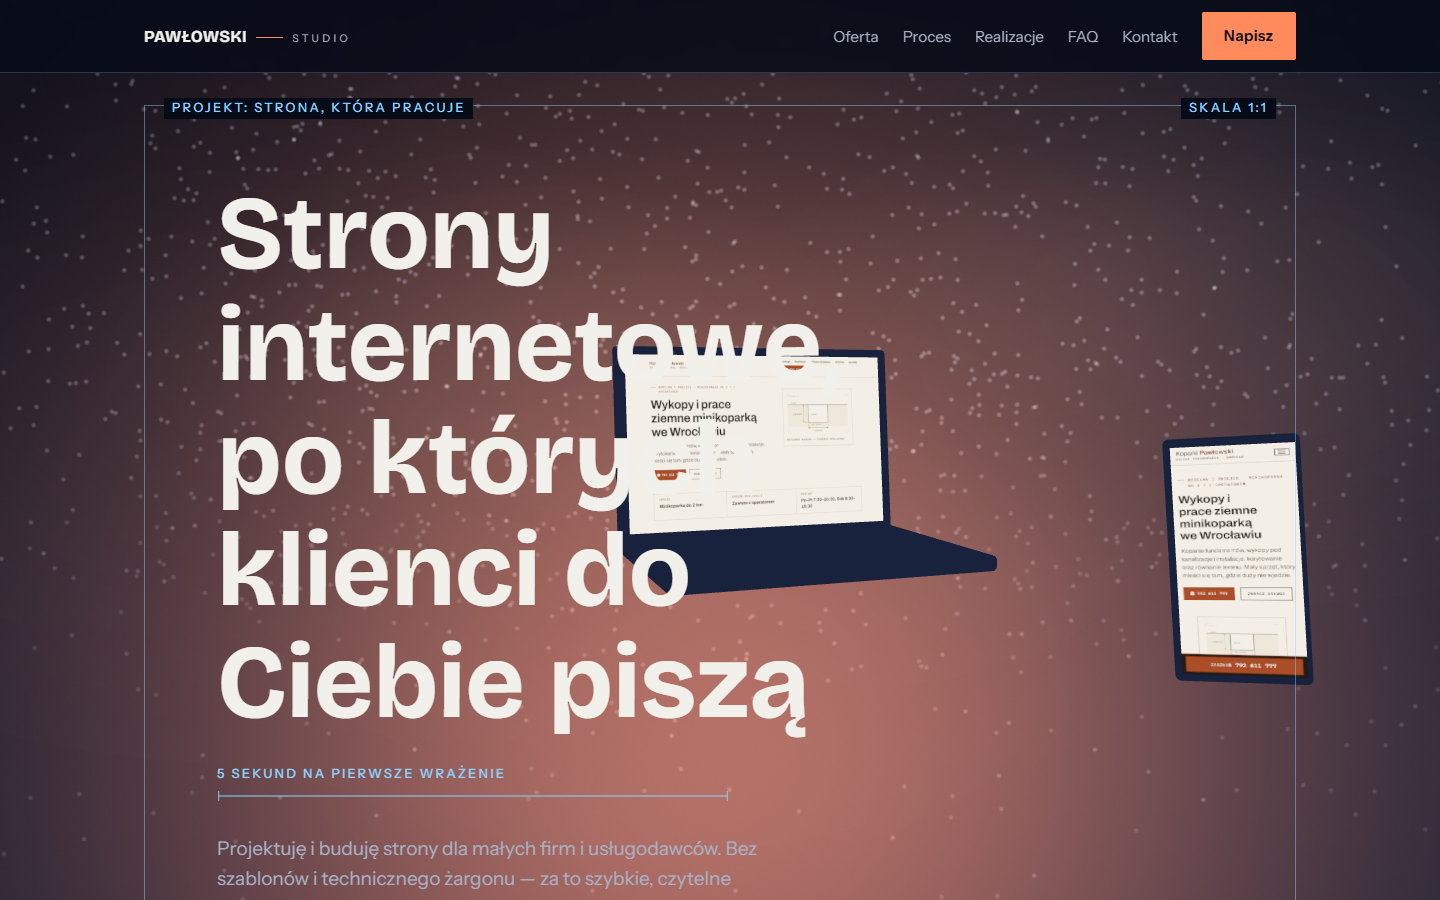
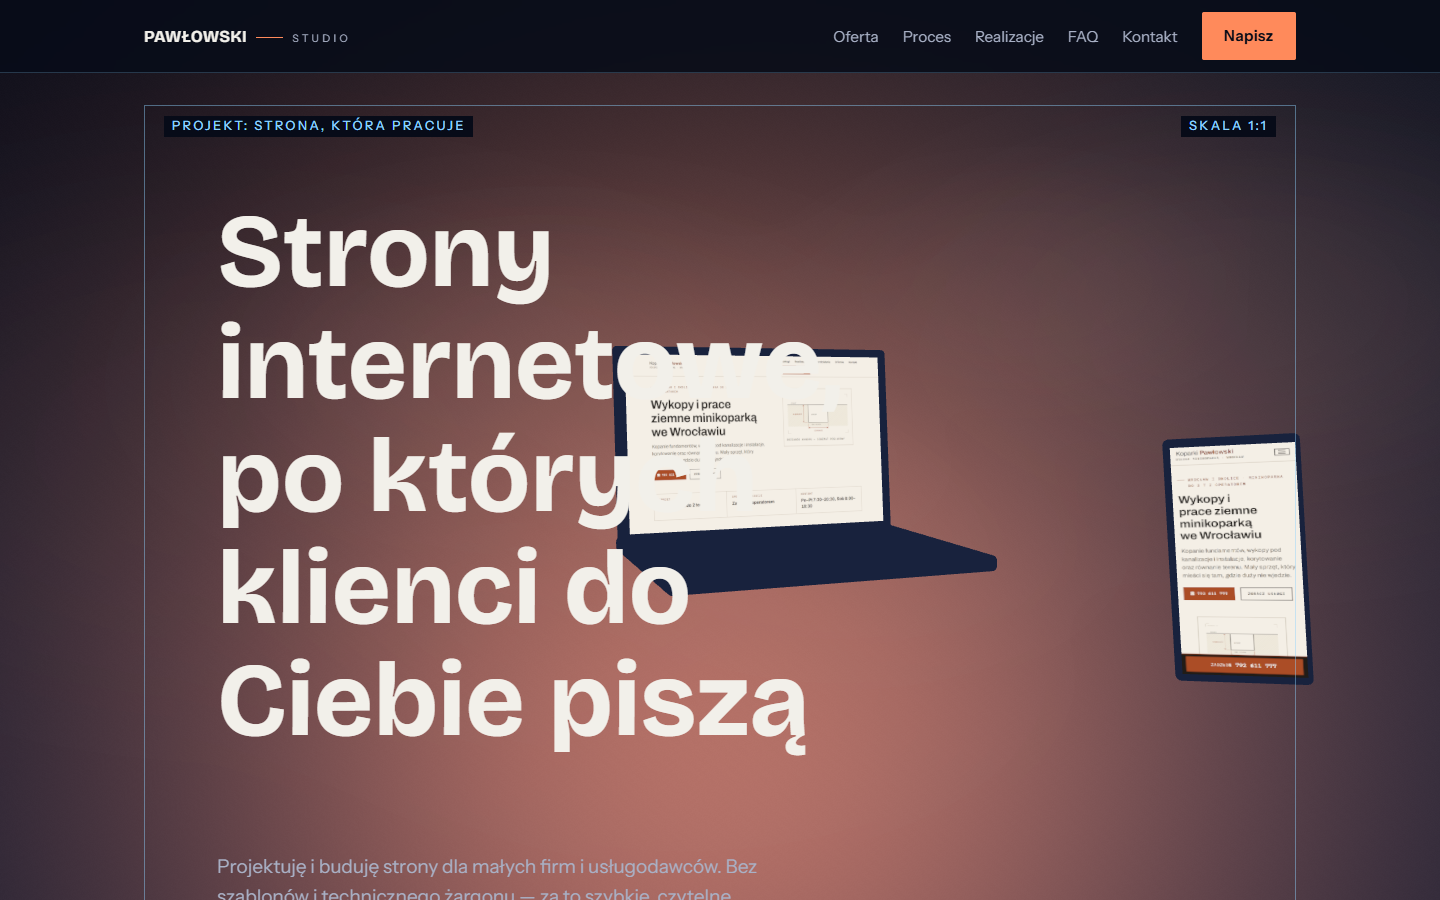
feat: page-wide pinned scroll ride (hero/offer/process/case), fix pin-spacer overlap, remove background dots

diff --git a/src/scripts/motion/reveals.ts b/src/scripts/motion/reveals.ts
@@ -1,6 +1,11 @@
-// Reveals: one orchestrated hero entrance + sparing scroll-driven reveals.
-// Masterprompt 8.5: NOT fade-up on every block — key headings and section
-// intros only. SplitText keeps full text accessible (aria: 'auto').
+// Reveals + act choreography (MASTERPROMPT sekcja 10).
+// Hero entrance is pure CSS (motion.css). Here: scroll-driven "hooked" acts —
+// pinned sequences like the Proces one the owner liked (GTA VI / motionsites
+// style): each key section locks and its beats play through the scroll.
+//
+// CRITICAL (bug fix): every trigger is created in DOM order and carries a
+// refreshPriority — out-of-order pins overlap their pin-spacers on refresh.
+// Accessibility: transforms/colors only — text contrast never breaks mid-scroll.
 import { gsap } from 'gsap';
 import { ScrollTrigger } from 'gsap/ScrollTrigger';
 import { SplitText } from 'gsap/SplitText';
@@ -10,11 +15,13 @@ gsap.registerPlugin(ScrollTrigger, SplitText);
 export function initReveals(): void {
   const mm = gsap.matchMedia();
 
+  // ---------------------------------------------------------------
+  // Reveals that never pin (safe at any width / any order)
+  // ---------------------------------------------------------------
   mm.add('(prefers-reduced-motion: no-preference)', () => {
     // Hero entrance is pure CSS (motion.css) so the LCP element paints at
     // first render — JS never gates hero visibility (masterprompt sekcja 9).
 
-    // --- Section headings: masked line reveal on scroll ---
     gsap.utils.toArray<HTMLElement>('.section__heading').forEach((el) => {
       SplitText.create(el, {
         type: 'lines',
@@ -32,7 +39,6 @@ export function initReveals(): void {
       });
     });
 
-    // --- Section intros + labels: plain fade (masterprompt: simple fade for prose) ---
     gsap.utils.toArray<HTMLElement>('.section__label, .section__intro').forEach((el) => {
       gsap.from(el, {
         autoAlpha: 0,
@@ -42,99 +48,176 @@ export function initReveals(): void {
         scrollTrigger: { trigger: el, start: 'top 88%', once: true },
       });
     });
+  });
 
-    // --- Global scrub choreography (G2 feedback: the whole page should flow
-    // like the pinned Proces sequence). Transform-only: text contrast is never
-    // broken mid-scroll. ---
+  // ---------------------------------------------------------------
+  // Desktop ride: pinned acts in DOM order (I hero, II oferta,
+  // III proces, IV realizacje; V-VI scrubbed; VII kontakt scrubbed)
+  // ---------------------------------------------------------------
+  mm.add('(prefers-reduced-motion: no-preference) and (min-width: 60rem)', () => {
+    // ACT I — Hero: pinned exit sequence (the first "hook")
+    const heroTl = gsap.timeline({
+      scrollTrigger: {
+        trigger: '.hero',
+        start: 'top top',
+        end: '+=100%',
+        pin: true,
+        scrub: 0.4,
+        anticipatePin: 1,
+        refreshPriority: 10,
+        invalidateOnRefresh: true,
+      },
+    });
+    heroTl
+      .to('[data-hero="meta"]', { y: -70, ease: 'none' }, 0)
+      .to('[data-hero="dimension"]', { scaleX: 0, transformOrigin: 'right center', ease: 'none' }, 0)
+      .to('[data-hero="title"]', { yPercent: -16, ease: 'none' }, 0)
+      .to('[data-hero="lead"]', { yPercent: -10, ease: 'none' }, 0)
+      .to('[data-hero="ctas"]', { yPercent: -4, ease: 'none' }, 0);
 
-    // Hero exits with parallax
-    gsap.to('.hero__content', {
-      yPercent: -10,
-      ease: 'none',
-      scrollTrigger: { trigger: '.hero', start: 'top top', end: 'bottom top', scrub: 0.5 },
+    // ACT II — Oferta: pinned card-by-card reveal (like Proces steps)
+    const cards = gsap.utils.toArray<HTMLElement>('.offer-card');
+    const offerTl = gsap.timeline({
+      scrollTrigger: {
+        trigger: '.offer',
+        start: 'top top+=72',
+        end: '+=130%',
+        pin: true,
+        scrub: 0.4,
+        anticipatePin: 1,
+        refreshPriority: 8,
+        invalidateOnRefresh: true,
+      },
+    });
+    cards.forEach((card, i) => {
+      offerTl.fromTo(card, { y: 28 }, { y: 0, duration: 1, ease: 'none' }, i * 0.8);
+      offerTl.fromTo(
+        card,
+        { borderColor: 'rgba(143, 211, 255, 0.14)' },
+        { borderColor: 'rgba(255, 138, 91, 0.55)', duration: 1, ease: 'none' },
+        i * 0.8,
+      );
     });
 
-    // Offer cards rise in a wave as the section enters
-    gsap.from('.offer-card', {
-      y: 60,
-      stagger: 0.12,
-      ease: 'none',
-      scrollTrigger: { trigger: '.offer__grid', start: 'top 90%', end: 'top 35%', scrub: 0.6 },
+    // ACT III — Proces: pinned step sequence (owner's favourite)
+    const steps = gsap.utils.toArray<HTMLElement>('.process-step');
+    const processTl = gsap.timeline({
+      scrollTrigger: {
+        trigger: '.process',
+        start: 'top top+=72',
+        end: '+=130%',
+        pin: true,
+        scrub: 0.4,
+        anticipatePin: 1,
+        refreshPriority: 6,
+        invalidateOnRefresh: true,
+      },
+    });
+    steps.forEach((step, i) => {
+      const num = step.querySelector<HTMLElement>('.process-step__number');
+      processTl.fromTo(step, { y: 24 }, { y: 0, duration: 1, ease: 'none' }, i);
+      if (num) {
+        processTl.fromTo(
+          num,
+          { color: '#8FD3FF' },
+          { color: '#FF8A5B', duration: 1, ease: 'none' },
+          i,
+        );
+      }
     });
 
-    // Standard + FAQ + contact: gentle staggered rises tied to scroll
+    // ACT IV — Realizacje: pinned case-study sequence
+    const caseSteps = gsap.utils.toArray<HTMLElement>('.case-study__step');
+    const caseTl = gsap.timeline({
+      scrollTrigger: {
+        trigger: '.case-study',
+        start: 'top top+=72',
+        end: '+=100%',
+        pin: true,
+        scrub: 0.4,
+        anticipatePin: 1,
+        refreshPriority: 4,
+        invalidateOnRefresh: true,
+      },
+    });
+    caseTl.fromTo(
+      '.case-study__mockups',
+      { y: 30 },
+      { y: -30, duration: caseSteps.length, ease: 'none' },
+      0,
+    );
+    caseSteps.forEach((step, i) => {
+      caseTl.fromTo(step, { color: '#8FD3FF' }, { color: '#FF8A5B', duration: 1, ease: 'none' }, i);
+      const body = step.nextElementSibling;
+      if (body) caseTl.fromTo(body, { y: 24 }, { y: 0, duration: 1, ease: 'none' }, i);
+    });
+
+    // ACT V-VI — Standard + FAQ: staggered rises tied to scroll
     gsap.from('.standard-item', {
       y: 50,
       stagger: 0.1,
       ease: 'none',
-      scrollTrigger: { trigger: '.standard__grid', start: 'top 88%', end: 'top 40%', scrub: 0.6 },
+      scrollTrigger: {
+        trigger: '.standard__grid',
+        start: 'top 88%',
+        end: 'top 40%',
+        scrub: 0.6,
+        refreshPriority: 3,
+      },
     });
     gsap.from('.faq-item', {
       y: 30,
       stagger: 0.08,
       ease: 'none',
-      scrollTrigger: { trigger: '.faq__list', start: 'top 88%', end: 'top 45%', scrub: 0.6 },
+      scrollTrigger: {
+        trigger: '.faq__list',
+        start: 'top 88%',
+        end: 'top 45%',
+        scrub: 0.6,
+        refreshPriority: 2,
+      },
     });
+
+    // ACT VII — Kontakt: the dawn finale (scrubbed, no pin — the form is the
+    // conversion moment and must never be locked away)
     gsap.from('.contact__grid', {
       y: 60,
       ease: 'none',
-      scrollTrigger: { trigger: '.contact', start: 'top 88%', end: 'top 45%', scrub: 0.6 },
+      scrollTrigger: {
+        trigger: '.contact',
+        start: 'top 88%',
+        end: 'top 45%',
+        scrub: 0.6,
+        refreshPriority: 1,
+      },
     });
+  });
 
-    // --- Act IV (Realizacje): short pinned sequence on desktop, like Proces ---
-    mm.add('(prefers-reduced-motion: no-preference) and (min-width: 60rem)', () => {
-      const steps = gsap.utils.toArray<HTMLElement>('.case-study__step');
-      const tl = gsap.timeline({
-        scrollTrigger: {
-          trigger: '.case-study',
-          start: 'top top+=72',
-          end: '+=100%',
-          pin: true,
-          scrub: 0.4,
-          invalidateOnRefresh: true,
-        },
-      });
-      tl.fromTo(
-        '.case-study__mockups',
-        { y: 30 },
-        { y: -30, duration: steps.length, ease: 'none' },
-        0,
-      );
-      steps.forEach((step, i) => {
-        // Labels glow from structural blue to the warm accent (both pass AA)
-        tl.fromTo(step, { color: '#8FD3FF' }, { color: '#FF8A5B', duration: 1, ease: 'none' }, i);
-        const body = step.nextElementSibling;
-        if (body) tl.fromTo(body, { y: 24 }, { y: 0, duration: 1, ease: 'none' }, i);
-      });
+  // ---------------------------------------------------------------
+  // Mobile/tablet: lighter scrub choreography, zero pins
+  // ---------------------------------------------------------------
+  mm.add('(prefers-reduced-motion: no-preference) and (max-width: 59.99rem)', () => {
+    gsap.to('.hero__content', {
+      yPercent: -8,
+      ease: 'none',
+      scrollTrigger: { trigger: '.hero', start: 'top top', end: 'bottom top', scrub: 0.5 },
     });
-
-    // --- Act III (Proces): pinned step sequence on desktop only (<= 2 screens).
-    // Accessibility over effect: text never dims below AA contrast — the
-    // progression is carried by motion + the decorative step numbers.
-    mm.add('(prefers-reduced-motion: no-preference) and (min-width: 60rem)', () => {
-      const steps = gsap.utils.toArray<HTMLElement>('.process-step');
-      const tl = gsap.timeline({
-        scrollTrigger: {
-          trigger: '.process',
-          start: 'top top+=72',
-          end: '+=150%',
-          pin: true,
-          scrub: 0.4,
-          invalidateOnRefresh: true,
-        },
-      });
-      steps.forEach((step, i) => {
-        const num = step.querySelector<HTMLElement>('.process-step__number');
-        tl.fromTo(step, { y: 24 }, { y: 0, duration: 1, ease: 'none' }, i);
-        if (num) {
-          tl.fromTo(
-            num,
-            { color: '#8FD3FF' },
-            { color: '#FF8A5B', duration: 1, ease: 'none' },
-            i,
-          );
-        }
-      });
+    gsap.from('.offer-card', {
+      y: 40,
+      stagger: 0.1,
+      ease: 'none',
+      scrollTrigger: { trigger: '.offer__grid', start: 'top 92%', end: 'top 45%', scrub: 0.6 },
+    });
+    gsap.from('.standard-item', {
+      y: 36,
+      stagger: 0.08,
+      ease: 'none',
+      scrollTrigger: { trigger: '.standard__grid', start: 'top 92%', end: 'top 50%', scrub: 0.6 },
+    });
+    gsap.from('.contact__grid', {
+      y: 36,
+      ease: 'none',
+      scrollTrigger: { trigger: '.contact', start: 'top 92%', end: 'top 50%', scrub: 0.6 },
     });
   });
 }

diff --git a/src/scripts/webgl/scene.ts b/src/scripts/webgl/scene.ts
@@ -9,7 +9,6 @@ import atmosphereVert from './shaders/atmosphere.vert.glsl?raw';
 import atmosphereFrag from './shaders/atmosphere.frag.glsl?raw';
 import layersVert from './shaders/layers.vert.glsl?raw';
 import layersFrag from './shaders/layers.frag.glsl?raw';
-import { createParticles, MAX_PARTICLES, type ParticlesHandle } from './particles';
 import { createDevices, type DevicesHandle } from './devices';
 import { AdaptiveController } from './adaptive';
 import { updateAct, type SceneState } from './acts';
@@ -90,9 +89,7 @@ export function initScene(tier: Tier, state: SceneState, mount: HTMLElement): Sc
     scene.add(mesh);
   });
 
-  // --- Dust particles ---
-  const particles: ParticlesHandle = createParticles(uniforms);
-  scene.add(particles.points);
+  // --- Dust particles removed per owner feedback (dots in the background) ---
 
   // --- Device mockups with case-study textures (Tier 2 only) ---
   let devices: DevicesHandle | null = null;
@@ -108,9 +105,6 @@ export function initScene(tier: Tier, state: SceneState, mount: HTMLElement): Sc
     setDpr(dpr: number) {
       renderer.setPixelRatio(Math.min(window.devicePixelRatio || 1, dpr));
       (uniforms.uPixelRatio.value as number) = Math.min(window.devicePixelRatio || 1, dpr);
-    },
-    setParticleCount(count: number) {
-      particles.setCount(Math.min(count, MAX_PARTICLES));
     },
     downgradeTier() {
       // Step down hard: drop the scene entirely (Tier 0 fallback) rather than
@@ -238,7 +232,7 @@ export function initScene(tier: Tier, state: SceneState, mount: HTMLElement): Sc
       getRenderInfo: () => ({
         calls: renderer.info.render.calls,
         triangles: renderer.info.render.triangles,
-        particles: particles.points.geometry.drawRange.count,
+        particles: 0,
         dpr: renderer.getPixelRatio(),
       }),
     };
@@ -255,7 +249,6 @@ export function initScene(tier: Tier, state: SceneState, mount: HTMLElement): Sc
       window.clearTimeout(resizeTimer);
       canvas.removeEventListener('webglcontextlost', onContextLost);
       canvas.removeEventListener('webglcontextrestored', onContextRestored);
-      particles.dispose();
       devices?.dispose();
       skyGeometry.dispose();
       skyMaterial.dispose();

diff --git a/src/scripts/webgl/adaptive.ts b/src/scripts/webgl/adaptive.ts
@@ -1,16 +1,10 @@
 // Adaptive quality (masterprompt 11.3): sample ~90 frames; if p95 frame time
-// exceeds 22 ms, step down — DPR (0.25 -> min 1.0), then particles, then tier.
+// exceeds 22 ms, step down — DPR (0.25 -> min 1.0), then tier.
 // Never upgrades mid-session (avoids flicker).
 import type { Tier } from './tier';
 
-export interface AdaptiveBudget {
-  maxDpr: number;
-  particles: number;
-}
-
 export interface AdaptiveCallbacks {
   setDpr(dpr: number): void;
-  setParticleCount(count: number): void;
   downgradeTier(): void;
 }
 
@@ -21,7 +15,6 @@ export class AdaptiveController {
   private frames: number[] = [];
   private lastTime = 0;
   private dpr: number;
-  private particles: number;
   private steppedDown = false;
 
   constructor(
@@ -31,9 +24,7 @@ export class AdaptiveController {
   ) {
     // Budgets from masterprompt 11.3
     this.dpr = tier === 2 ? (coarse ? 1.25 : 1.75) : 1;
-    this.particles = tier === 2 ? (coarse ? 1500 : 3500) : 600;
     callbacks.setDpr(this.dpr);
-    callbacks.setParticleCount(this.particles);
   }
 
   sample(now: number): void {
@@ -44,14 +35,11 @@ export class AdaptiveController {
     const sorted = [...this.frames].sort((a, b) => a - b);
     const p95 = sorted[Math.floor(sorted.length * 0.95)];
     this.frames = [];
-    if (p95 <= TARGET_P95_MS || this.steppedDown && this.dpr <= 1 && this.particles <= 600) return;
+    if (p95 <= TARGET_P95_MS || (this.steppedDown && this.dpr <= 1)) return;
 
     if (this.dpr > 1) {
       this.dpr = Math.max(1, this.dpr - 0.25);
       this.callbacks.setDpr(this.dpr);
-    } else if (this.particles > 600) {
-      this.particles = Math.max(600, Math.floor(this.particles / 2));
-      this.callbacks.setParticleCount(this.particles);
     } else {
       this.steppedDown = true;
       this.callbacks.downgradeTier();
